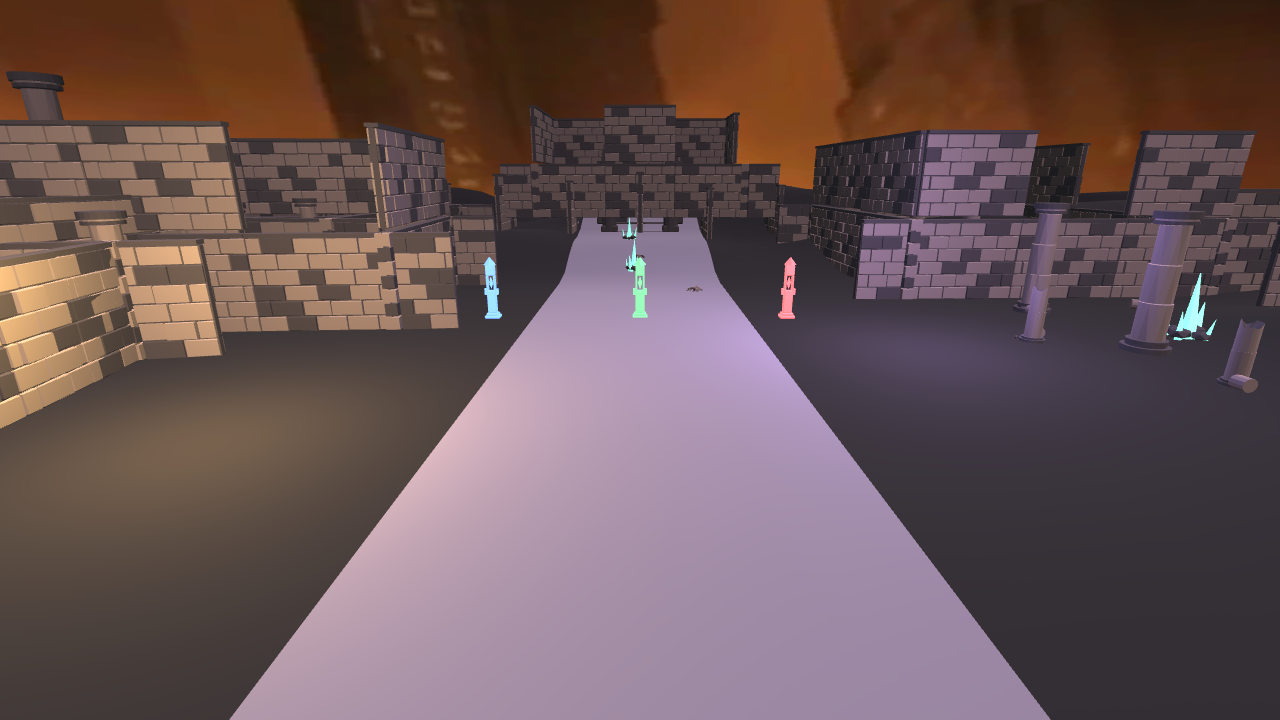
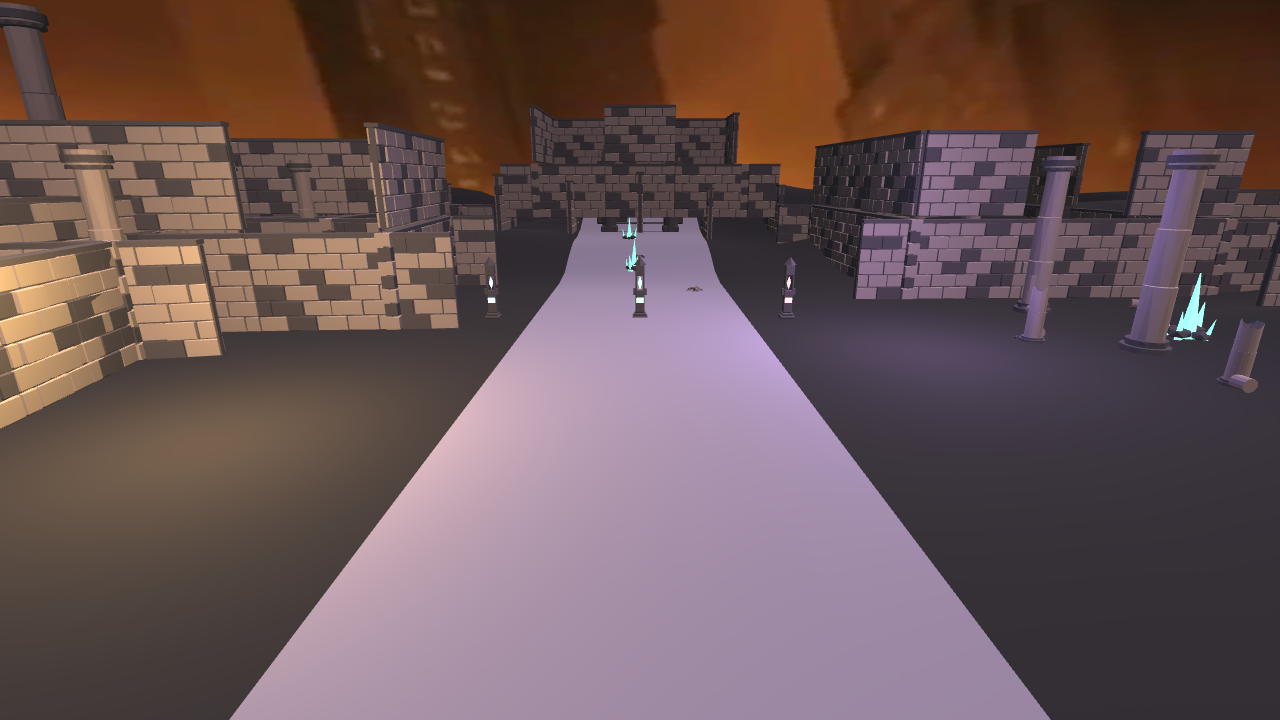
preview: taller pillars + refined stone-obelisk markers

diff --git a/kit-feedback.md b/kit-feedback.md
@@ -59,10 +59,11 @@
 - [i] 아치(arch_gate) 깊이/페그/문지방 개선은 피날레 카메라 각도상 이번 렌더 프레임
   밖 — **4080이 아치 근접 렌더 각도를 따로 잡아 다음 라운드에 확인**한다(3070은 대기).
 
-## 라운드 4 (2026-08-14, **3070 응답** — `order_marker.glb` 납품)
+## 라운드 4 (2026-08-14, **3070 응답** — `order_marker.glb` 납품 + 기둥 높이감)
 
-라운드1~3에서 최우선으로 요청한 표식 프롭을 만들어 `assets-src/blender/out/`과
-`Assets/Game/Art/Kit/`에 넣었다. **4080이 배선하면 된다.**
+라운드1~3의 3070 작업 항목(표식 프롭 + 기둥 높이감)을 모두 반영해
+`assets-src/blender/out/`과 `Assets/Game/Art/Kit/`에 넣었다. **4080이 배선하면 된다.**
+킷 총계 8,942 → **9,358 tri**(10종, 예산 15,000의 62%), validate-budgets OK.
 
 - [x] **`order_marker.glb` 완료** — 높이 **2.05m**(요청 1.8~2.2), **LOD0 324 tri**(예산 500),
   재질 3종. 형태: 계단 받침 → 각진 몸통(정면에 발광 문양 밴드) → **관통 개구부에 뜬
@@ -75,10 +76,15 @@
 - **기존 9종은 바이트 변화 없음** — 신규 조각을 `PIECES` 배열 **끝**에 붙여 공유 rng
   소비 순서를 보존했다. manifest diff에 order_marker 추가와 총합(8,942→**9,266**)
   외 변경이 없음을 확인했으니, 재임포트는 표식만 신경 쓰면 된다.
-- [ ] (다음 후보, 4080 판단 요청) 라운드1의 **기둥 높이감**(pillar_round 1.3~1.5배)과
-  라운드3의 **`monument.glb`**(피날레 중앙 기념비, ~5m/≤1200 tri) 중 어느 쪽이
-  화면 임팩트가 큰지 알려주면 그걸 다음으로 만든다. 표식 배선 후 인게임 렌더를 보고
-  정하는 게 정확할 것이다.
+- [x] **기둥 높이감도 반영** — `pillar_round` 총높이 **3.0m → 4.2m(1.4배)**, 상단에
+  계단식 관(crown tier) 추가. **반지름은 일부러 그대로 뒀다**: `PlaceKit`이 균등
+  스케일이라(링 1.2배 ~ 비콘 타워 3.4배) 에셋을 통째로 키우면 모든 배치에서 굵기까지
+  같이 커진다. 높이만 늘리면 비례가 슬림해져 랜드마크성이 살고, 기존 스케일 배수와는
+  곱셈으로 자연스럽게 합쳐진다. LOD0 828→920 tri. **배치 스케일 값은 그대로 둬도
+  되지만**, 비콘 타워(2.2~3.4배 → 실효 9.2~14.3m)는 한 번 확인해 보길 권한다.
+- [ ] (다음 후보, 4080 판단 요청) 라운드3의 **`monument.glb`**(피날레 중앙 기념비,
+  ~5m/≤1200 tri)가 남은 유일한 미해결 요청이다. 표식·기둥 배선 후 인게임 렌더를 보고
+  착수 여부를 알려주면 만든다. 이걸로 라운드1~3의 3070 작업 항목은 전부 소진됐다.
 
 ## 라운드 4 (2026-08-14, 4080 — order_marker.glb 수령·배선·인게임 확인)
 
